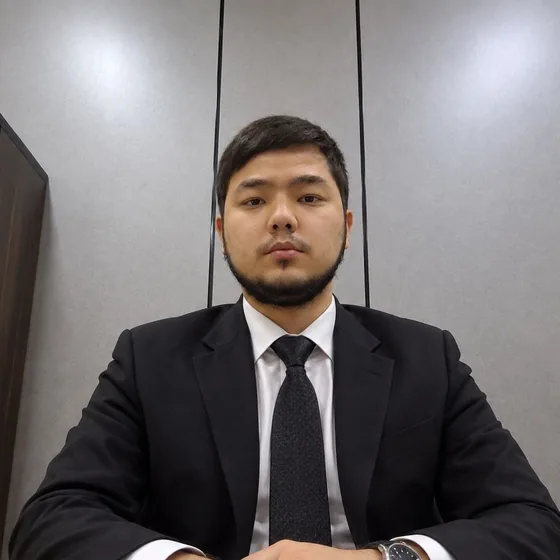
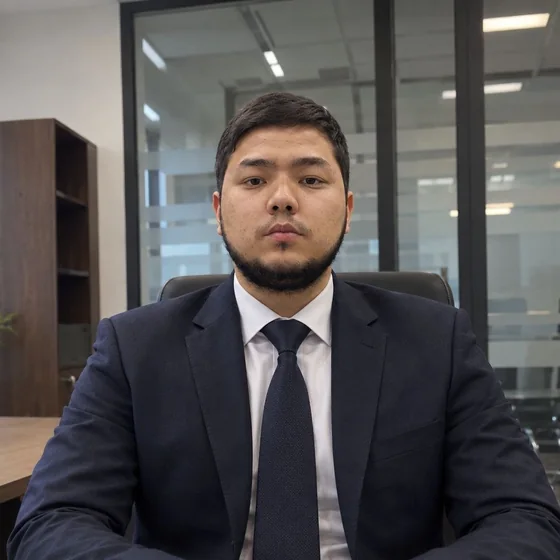
Teachers: new photo for Orifjonov
Service worker cache bumped to v7.

Claude-Session: https://claude.ai/code/session_01QCfxuh9TFDZb6UmoMMBJW9

diff --git a/sw.js b/sw.js
@@ -1,5 +1,5 @@
 /* SAID academy — offline fallback + asset cache */
-const VERSION = "v6";
+const VERSION = "v7";
 const CORE = ["offline.html", "assets/logo-dark-96.png", "assets/fonts/manrope-latin.woff2", "assets/fonts/manrope-latin-ext.woff2", "assets/fonts/manrope-cyrillic.woff2"];
 
 self.addEventListener("install", e => {
